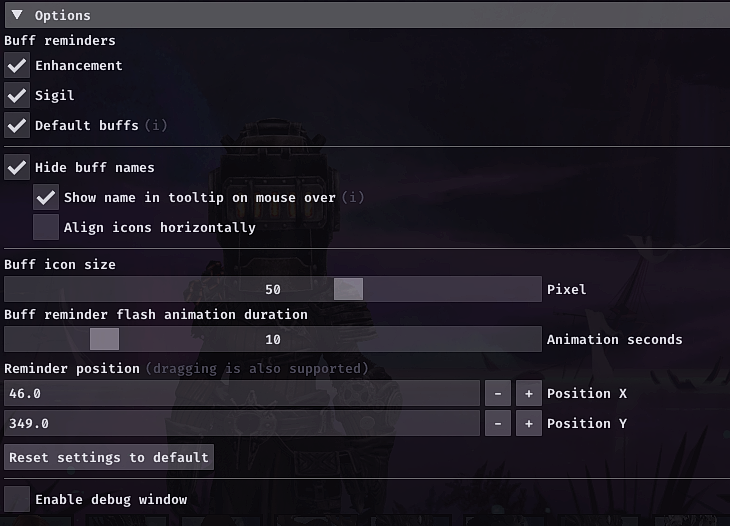
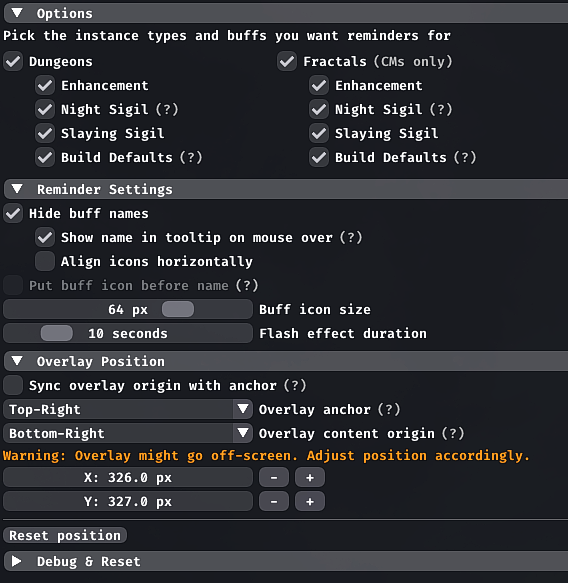
update readme

diff --git a/src/Common/Utils.cpp b/src/Common/Utils.cpp
@@ -1,4 +1,3 @@
-#include "Data/SettingsManager.h"
 #include "imgui/imgui.h"
 #include <filesystem>
 #include <fstream>

diff --git a/README.md b/README.md
@@ -1,33 +1,115 @@
 # Prep Alert
 
-A Guild Wars 2 Nexus addon that alerts the player when important buffs such as
+A Guild Wars 2 Nexus addon that reminds you when important buffs such as
 <sub><img src="./docs/utility.png" height="20" /></sub> Enhancements and
-<sub><img src="./docs/sigil.png" height="20" /></sub> Sigils or are missing.
+<sub><img src="./docs/sigil.png" height="20" /></sub> Sigils are missing.
 
-<img src="./docs/preview.png?" alt="Preview of Prep Alert in action" />
+
+<img src="./docs/demo.png" alt="Buff reminders demo" height="350" />
+
 
 ## Features
 
-In **Dungeons** and **Fractal CMs** these reminders show up dynamically based on the player's current position.  
+In **Dungeons** and **Fractal CMs** these reminders show up dynamically based on your current position.  
 They will only show up when the respective buff is missing.
 
-If no special buff is defined a so-called "default" buff reminder shows up until the player enters combat.
+You can also pick which buffs to show, e.g. if you don't care about Slaying Sigils you can disable those reminders.
+
+If no special buffs are available for the current encounter, an alert reminds you to use your build's default buffs.
 
 <img src="./docs/default_buff.png?" alt="Default buff reminder" align="" />
 
 ### A Note on Buff Choices
 
-Some of the buffs shown may be a bit opinionated and focus on general usefulness rather than going for the absolute tryhard setup.  
-The choices are based on the [Instanced Species List](https://docs.google.com/spreadsheets/d/135Iac7sWfB55kn3kFXWULneu4VfqmK8JqCHCrx3_ZMo/). If you think some of the suggested buffs could be better, feel free to contact me and we can talk about it.
+The buff choices are based on the [Instanced Species List](https://docs.google.com/spreadsheets/d/135Iac7sWfB55kn3kFXWULneu4VfqmK8JqCHCrx3_ZMo/) and focus on general usefulness rather than going for the absolute tryhard setup.  
+Let me know if you think something should be changed.
+
+> [!Important]
+> WORK IN PROGRESS
+
+<details>
+    <summary>Dungeon buffs</summary>
+
+| Map                  | Mode       | Sector                  | Enhancement     | Slaying Sigil | Night Sigil |
+| -------------------- | ---------- | ----------------------- | --------------- | ------------- | ----------- |
+| Ascalonian Catacombs |            |                         |                 |               |             |
+|                      | Story      | All                     | Ghost           | ✅             | ✅           |
+|                      | Explorable | Kholer                  | Ghost           | ✅             | ✅           |
+| Caudecus's Manor     |            |                         |                 |               |             |
+|                      | Story      | All                     | Outlaw          | ✅             |             |
+|                      | Explorable | All                     | Outlaw          | ✅             |             |
+| Twilight Arbor       |            |                         |                 |               |             |
+|                      | Story      | All                     | Nightmare Court | ✅             | ✅           |
+|                      | Explorable | All                     | Nightmare Court | ✅             | ✅           |
+|                      | Explorable | Up/Fwd Endboss          | Default         |               | ✅           |
+|                      | Explorable | Aether                  | Scarlets Armies |               | ✅           |
+| Sorrow's Embrace     |            |                         |                 |               |             |
+|                      | Story      | All                     | Dredge          | ✅             | ✅           |
+|                      | Explorable | P1                      | Inquest         | ✅             | ✅           |
+|                      | Explorable | P3 cart                 | Default         |               | ✅           |
+|                      | Explorable | P3 endboss              | Destroyer       | ✅             | ✅           |
+| Citadel of Flame     |            |                         |                 |               |             |
+|                      | Story      | All                     | Flame Legion    | ✅             | ✅           |
+|                      | Explorable | All                     | Flame Legion    | ✅             | ✅           |
+| Honor of the Waves   |            |                         |                 |               |             |
+|                      | Story      | All                     | Sons of Svanir  | ✅             |             |
+|                      | Explorable | Entrance Waypoint       | Icebrood        | ✅             |             |
+|                      | Explorable | Honor's Voice           | Icebrood        | ✅             |             |
+|                      | Explorable | Kodan's Bane            | Icebrood        | ✅             |             |
+|                      | Explorable | Aldus Stormbringer (P1) | Sons of Svanir  | ✅             |             |
+| Crucible of Eternity |            |                         |                 |               |             |
+|                      | Story      | All                     | Inquest         | ✅             |             |
+|                      | Explorable | Kudu                    | Default         |               |             |
+| Arah                 |            |                         |                 |               |             |
+|                      | Explorable | All                     | Undead          | ✅             |             |
+|                      | Explorable | Shoggroth (P1)          | Elemental       | ✅             |             |
+
+</details>
+<details>
+    <summary>Fractal CM buffs</summary>
+
+| Map                   | Sector      | Enhancement     | Slaying Sigil | Night Sigil          |
+| --------------------- | ----------- | --------------- | ------------- | -------------------- |
+| Lonely Tower          |             |                 |               |                      |
+|                       | Lower floor | Default         |               |                      |
+|                       | Upper floor | Demon           | ✅             |                      |
+| Silent Surf           |             |                 |               |                      |
+|                       | All         | Default         |               |                      |
+| Sunqua Peak           |             |                 |               |                      |
+|                       | All         | Default         |               | (No effect on condi) |
+| Shattered Observatory |             |                 |               |                      |
+|                       | All         | Default         |               | (Does not work)      |
+|                       | Arkk        | Scarlets Armies | ✅ (Inquest)   |                      |
+| Nightmare             |             |                 |               |                      |
+|                       | All         | Scarlets Armies | ✅ (Serpent)   |                      |
+|                       | MAMA        | Scarlets Armies |               |                      |
+| Kinfall               |             |                 |               |                      |
+|                       | All         | Icebrood        | ✅             |                      |
+
+</details>
 
 ## Options
 
-<img src="./docs/options.png?" alt="Options menu of Prep Alert" />
+Hovering the `(?)` in-game will show additional information.
+
+<img src="./docs/options.png?" alt="Prep Alert Options" />
 
 ## Technical Stuff
 
-The addon itself is written in C++ 20 for the [Nexus platform](https://raidcore.gg/Nexus).  
+The addon is written in C++ 20 for the [Nexus addon platform](https://raidcore.gg/Nexus).  
 The scripts for map data fetching and processing are written in Python 3.11+.
+
+### Memory Reading ⚠
+
+A small portion of the addon relies on memory reading to
+
+- retrieve currently active buffs on the player
+- get the current map floor the player is on
+
+Should be safe but as always, use at your own risk.
+
+> [!NOTE]
+> In order to keep the addon open source, game client internals were moved to a separate closed-source dependency.  
 
 ### Map Data
 
@@ -40,7 +122,7 @@ The official API endpoint contains several inconsistencies that make it difficul
 
 The retrieved map data is stored in `data/maps_raw.json`.
 
-The data is then processed with `scripts/map_data_patcher/main.py` to generate `src/maps.json` which is then finally packed into the addon DLL.
+The data is then processed with `scripts/map_data_patcher/main.py` to generate `src/maps.json` which is then packed into the addon DLL.
 
 #### Sector Data
 
@@ -49,7 +131,7 @@ Fractal maps contain only a single large sector spanning the entire map, so cust
 By enabling DevTools local overrides for the main `index.php`, the modifications below were applied to the wiki page directly.
 
 <details>
-<summary>The modified Widget</summary>
+<summary>Code</summary>
 
 `{{#Widget:Zone map v3 | continent = 2 | map = 1205 | size = huge-map}}`
 
@@ -101,15 +183,6 @@ function onMapMouseMove(e) {
 ```
 
 </details>
-
-### Memory Reading
-
-A small portion of the addon relies on memory reading to
-
-- retrieve currently active buffs on the player
-- get the current map floor the player is on
-
-Should be safe but as always, use at your own risk.
 
 ### Dependencies
 
